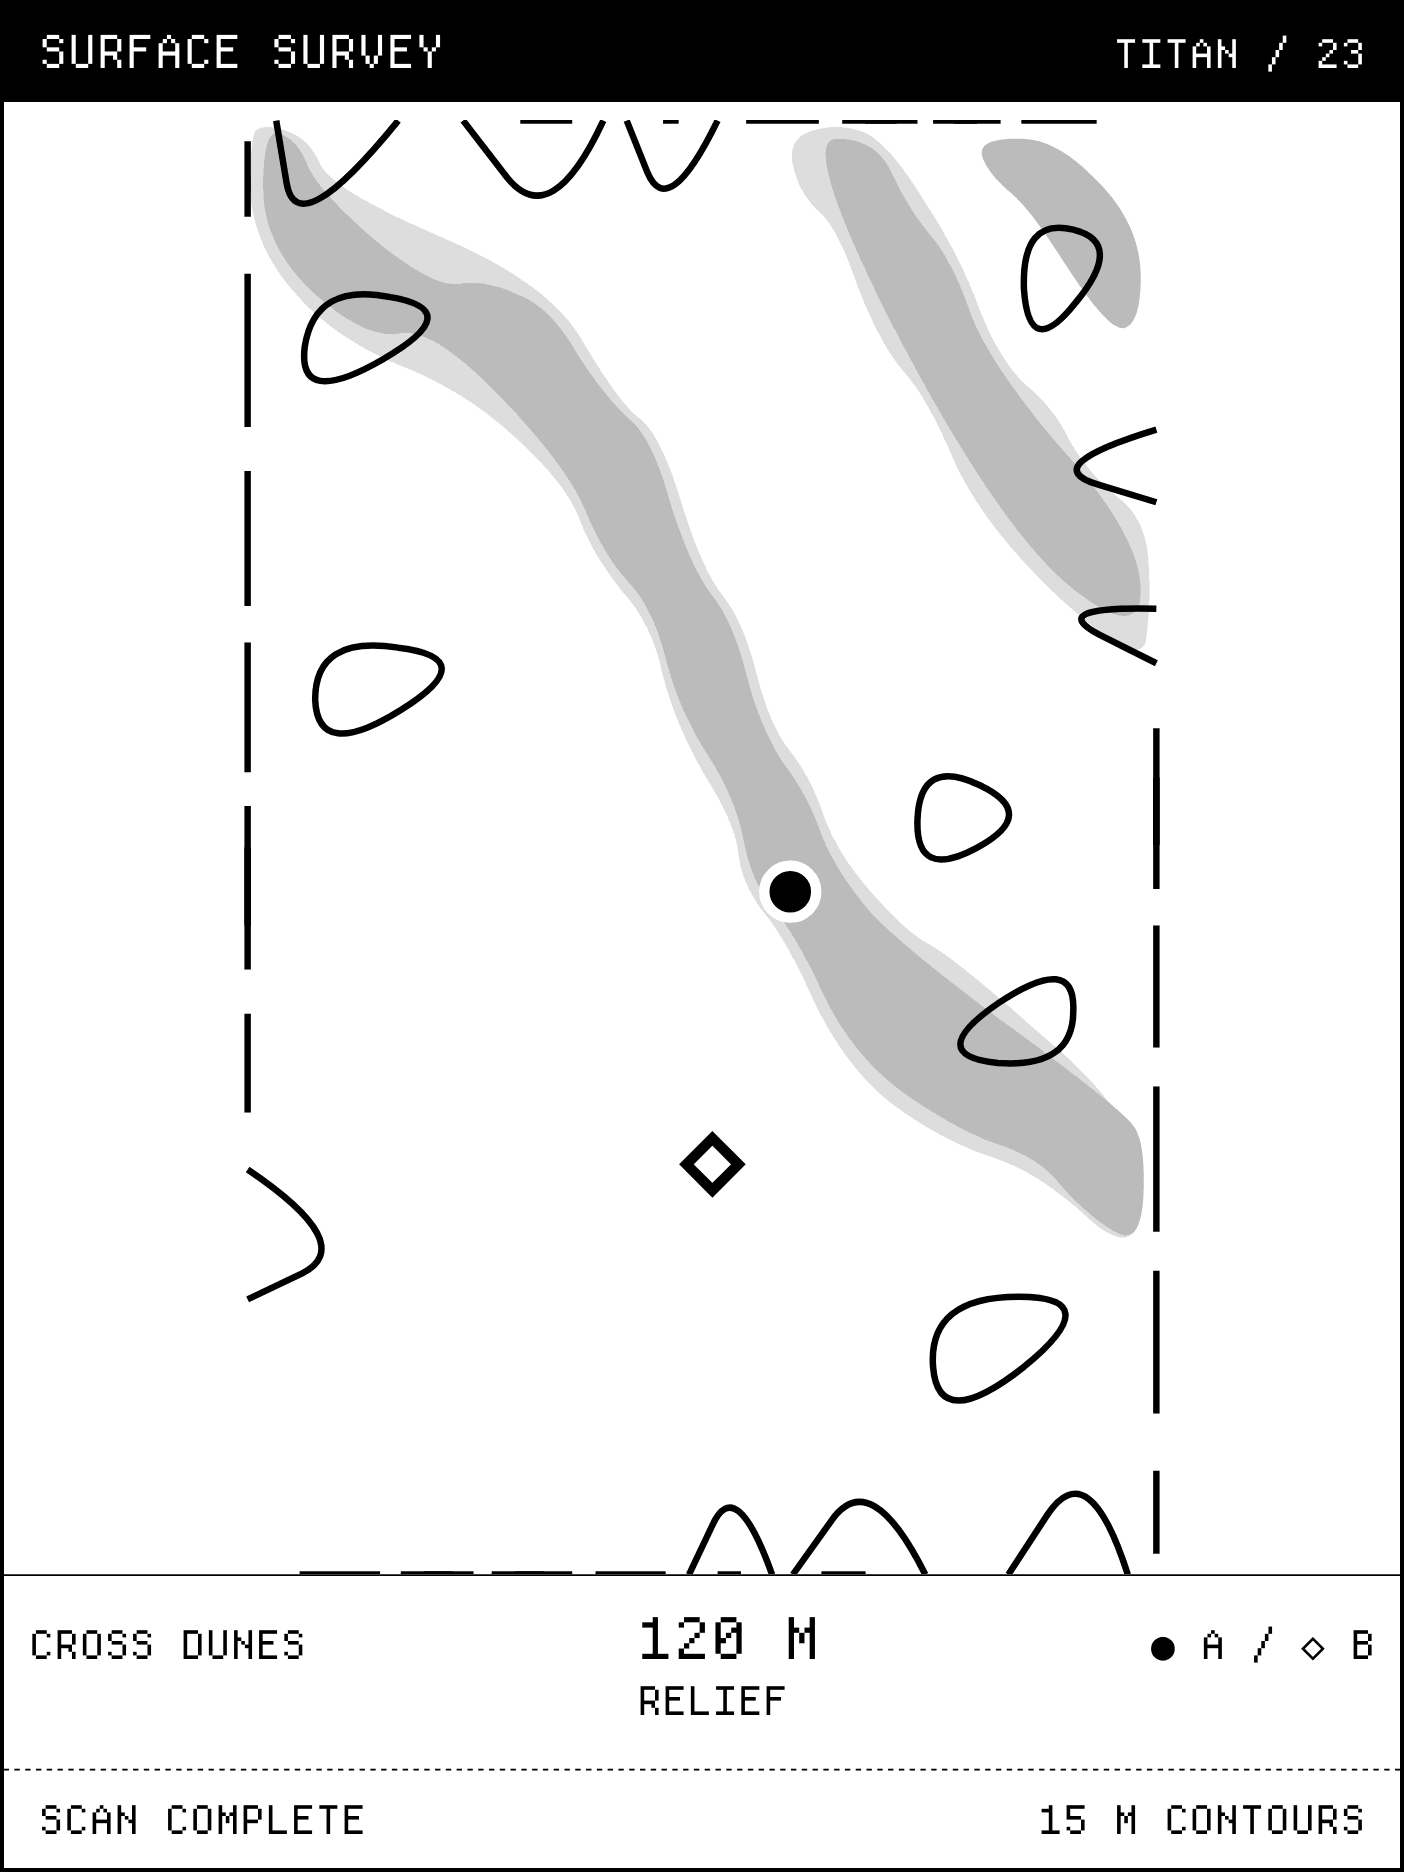
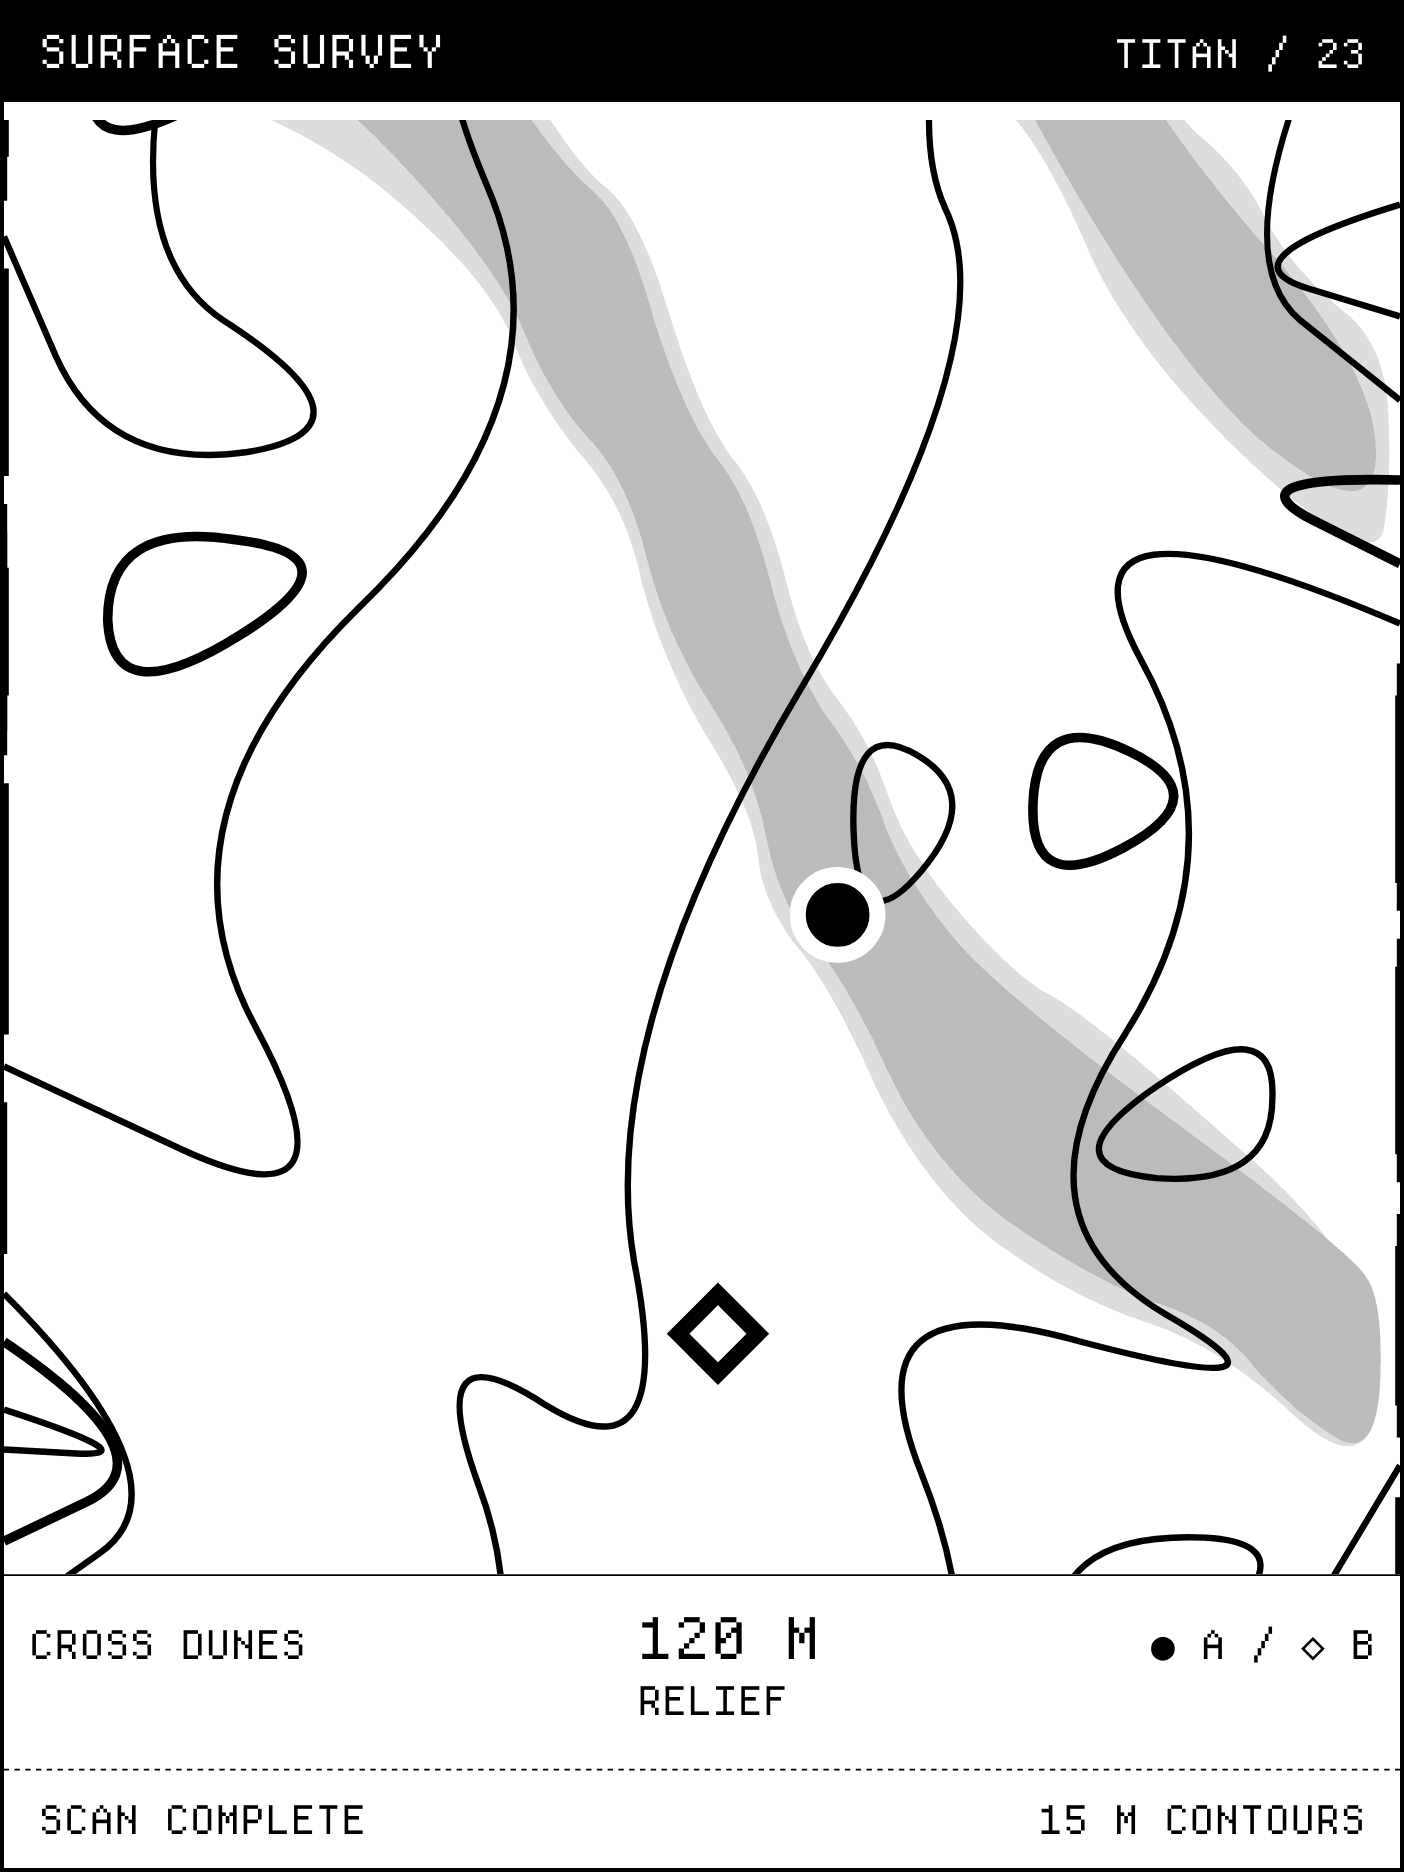
Restore full-bleed Surface Survey maps

diff --git a/space-terminal/tests/plugin_spec.rb b/space-terminal/tests/plugin_spec.rb
@@ -17,6 +17,15 @@ RSpec.describe 'Space Terminal' do
                               custom_fields: scenario.fetch('custom_fields'))
         expect(screen).to have_text(scenario.fetch('expect_text')).and(have_no_transform_error)
           .and(have_no_problems).and(have_no_overflow).and(have_no_overlapping_text)
+        if preset == 'surface_survey' && (view != 'full' || orientation == 'portrait')
+          expect(screen.evaluate(<<~JS)).to eq(true)
+            (() => {
+              const maps = [...document.querySelectorAll('.terminal-fraction-survey-map img')];
+              const visible = maps.filter(map => map.getBoundingClientRect().width > 0);
+              return visible.length === 1 && visible[0].complete && visible[0].naturalWidth > 0;
+            })()
+          JS
+        end
       end
     end
   end

diff --git a/space-terminal/README.md b/space-terminal/README.md
@@ -17,7 +17,7 @@ come from the date seed. Boarding starts 30 minutes before departure.
 | **Departure Board.** Switches among departures, arrivals, and transfers, each with its own status vocabulary. | **System Status.** Six subsystem meters, three operating states, and six temperature trends. |
 | ![Mission brief with the Nursery spacecraft, orbital transfer diagram, and vessel gauges](docs/screenshots/mission-brief.png) | ![Docking clearance with a traffic hold and a station approach diagram](docs/screenshots/docking-clearance.png) |
 | **Mission Brief.** Twelve ship silhouettes cycle through seeded missions with changing fuel, oxygen, power, and hull readings. | **Docking Clearance.** Get a berth and approach bearing for the day's ship. The station diagram highlights the assigned sector. |
-| ![Signal Intercept showing an SOS distress beacon at 121.500 MHz](docs/screenshots/signal-intercept.png) | ![Surface Survey showing two marked sites on a lunar contour map](docs/screenshots/surface-survey.png) |
+| ![Signal Intercept showing an SOS distress beacon at 121.500 MHz](docs/screenshots/signal-intercept.png) | ![Surface Survey showing two marked sites on a contour map of Titan](docs/screenshots/surface-survey.png) |
 | **Signal Intercept.** Six procedural waveforms include chirps, pulse trains, quiet scans, and an SOS distress beacon. | **Surface Survey.** Twelve landform families across Europa, Luna, Mars, and Titan. Contours show elevation, and shaded slopes and site markers help read the terrain. |
 
 ## Full screen and mashups
@@ -25,7 +25,8 @@ come from the date seed. Boarding starts 30 minutes before departure.
 The seven presets support full screen, horizontal half, vertical half, and
 quadrant. Wide slots set readouts beside diagrams. Tall slots stack them.
 The narrowest signal layouts split the waveform into two successive views, and
-tall survey layouts rotate the contour map to keep the sites in view.
+tall survey layouts rotate the contour map to keep the sites in view. The map
+fills its panel in every slot.
 
 | TRMNL X full screen, portrait | TRMNL X quadrant, landscape |
 | --- | --- |
